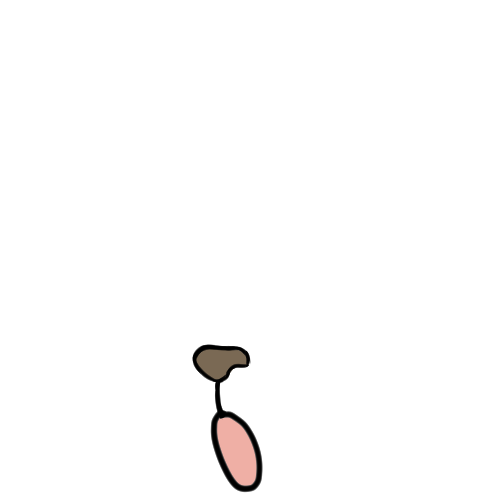
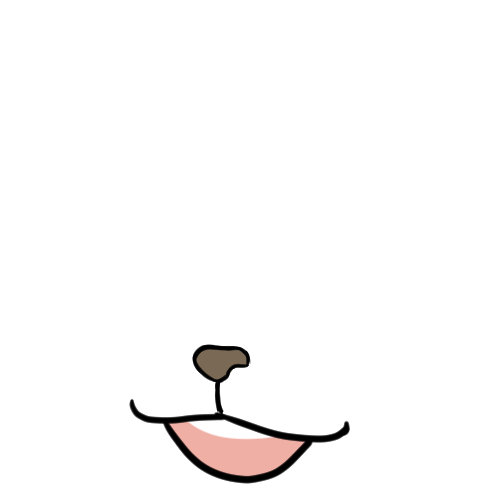
feat:mouth 소스 라벨링 업데이트/ mouth 셀렉트 구현

Changed region(s): [[0.24, 0.78, 0.72, 0.99]]

diff --git a/animal-app/src/component/selectData.jsx b/animal-app/src/component/selectData.jsx
@@ -46,7 +46,22 @@ module.exports.Options = [
         {key:12, value:"올망눈"},
         {key:13, value:"진완님눈"},]
     }
-
+    ,
+    {mouthsselect : 
+        [{key:0, value:"이빨입(송곳니)"},
+        {key:1, value:"이빨입(기본)"},
+        {key:2, value:"닫은입(작은)"},
+        {key:3, value:"닫은입(기본)"},
+        {key:4, value:"웃는입(작은)"},
+        {key:5, value:"웃는입(큰)"},
+        {key:6, value:"놀란입(작은)"},
+        {key:7, value:"놀란입(큰)"},
+        {key:8, value:"면접광탈입"},
+        {key:9, value:"흡연(말보로)"},
+        {key:10, value:"메롱입"},
+        {key:11, value:"먹는입"}
+        ]
+    }
     
 ]
 

diff --git a/animal-app/src/component/ViewSection.jsx b/animal-app/src/component/ViewSection.jsx
@@ -8,7 +8,7 @@ function ViewSection({randomface,randomcolor,randomeyes,randommouth,randomacc,ra
 
   let faceurl = `./img/face/face${randomface}/color${randomcolor}.png`
   let eyesurl = `./img/eye/eye${randomeyes}.png`
-  let mouthurl = `./img/mouth/mouth-${randommouth}.png`
+  let mouthurl = `./img/mouth/mouth${randommouth}.png`
     return (
       <div>
         <div className="ViewSection">
